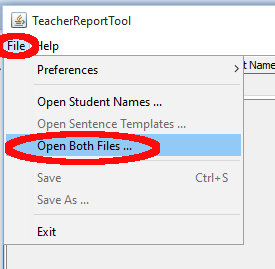
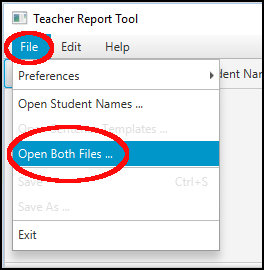
Updated help text images to us new JavaFx widgets

diff --git a/TeacherReportTool/src/teacherReportTool/HelpWindow.java b/TeacherReportTool/src/teacherReportTool/HelpWindow.java
@@ -39,7 +39,8 @@ import java.net.URL;
 public class HelpWindow {
     public void display() {
         Stage stage = new Stage();
-        stage.initModality(Modality.APPLICATION_MODAL);
+        //stage.initModality(Modality.APPLICATION_MODAL);
+        stage.initModality(Modality.NONE);
         stage.setTitle("Help");
         stage.setMinWidth(250);
 
